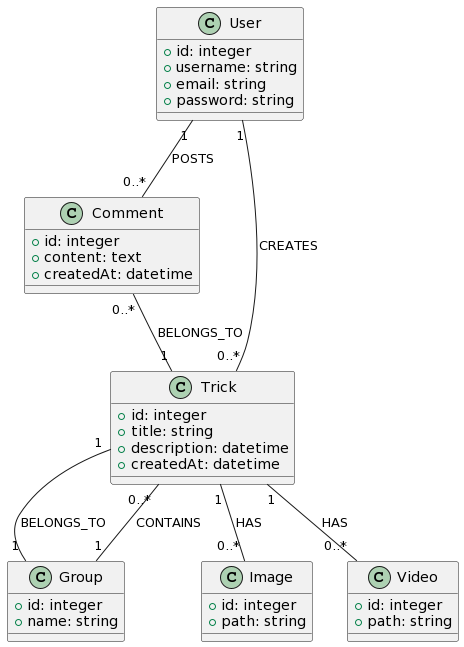
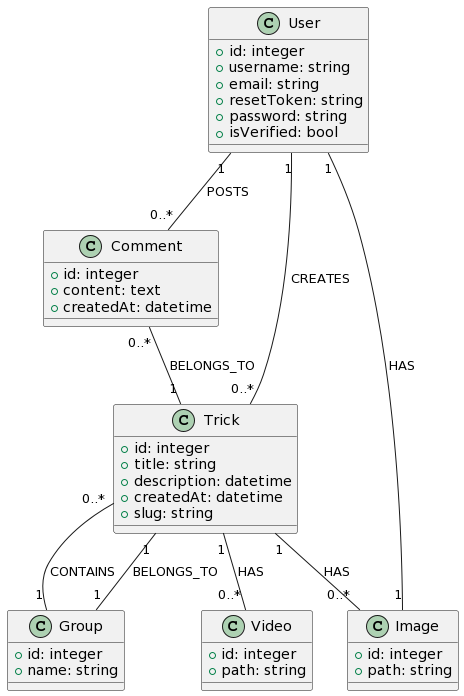
🔖 VERSION: bump version to v1.0.0 stable (#22)
* 📦 DEPENDENCIES: remove flowbite

* 🔨 REFACTOR: js scripts (codacy)

* 💎 STYLE: minor edit to user menu on navbar

* 📖 DOCS: update UML diagrams

📖 DOCS: update README.md

🔖 VERSION: bump version to v1.0.0 stable

diff --git a/assets/styles/app.css b/assets/styles/app.css
@@ -1,4 +1,3 @@
-@import 'flowbite/dist/flowbite.css';
 @tailwind base;
 @tailwind components;
 @tailwind utilities;

diff --git a/README.md b/README.md
@@ -9,7 +9,7 @@
 ## Pre-requisites :
 - PHP 8.2
 - Composer
-- npm (I used pnpm)
+- npm/yarn (I used pnpm)
 - Symfony CLI
 ---
 
@@ -18,8 +18,8 @@
 ```sh
 git clone https://github.com/tomcdj71/Snowtricks
 cd Snowtricks
-composer install --no-dev --optimize-autoloader
-yarn install
+composer install --optimize-autoloader
+yarn install --force
 yarn build
 symfony console d:d:c
 symfony console d:m:m
@@ -29,8 +29,26 @@ symfony serve
 
 ## Features
 
+- [x] Registration
+- [x] Authentication
+- [x] Password Reset
+- [x] Add a trick
+- [x] Edit a trick
+- [x] Delete a Trick
+- [x] Show a Trick
+- [x] Comment a Trick
+- [x] Change User avatar
+- [x] Load more tricks/comments
+
 ## Usage
 
+Once you've ran `symfony serve` you can open your browser and go to [http://localhost:8000](http://localhost:8000) and start using the app
+
+## About this project
+
+This project was made with [Symfony 6.3 ](https://symfony.com/releases/6.3) and [PHP 8.2.7](https://www.php.net/ChangeLog-8.php#8.2.7). Design of the the project was made with [TailwindCSS 3.3.2](https://github.com/tailwindlabs/tailwindcss/blob/master/CHANGELOG.md#332---2023-04-25) with a powerful integration of [HeroIcons 2.0.18](https://github.com/tailwindlabs/heroicons/blob/master/CHANGELOG.md#2018---2023-05-09)
+
+A great commit process is in place in order to make better commits, using grumphp, phpmd, rector, phpstan, php-cs-fixer and other tools triggered by a commit hook.
 ## Author
 
 👤 **Thomas**
